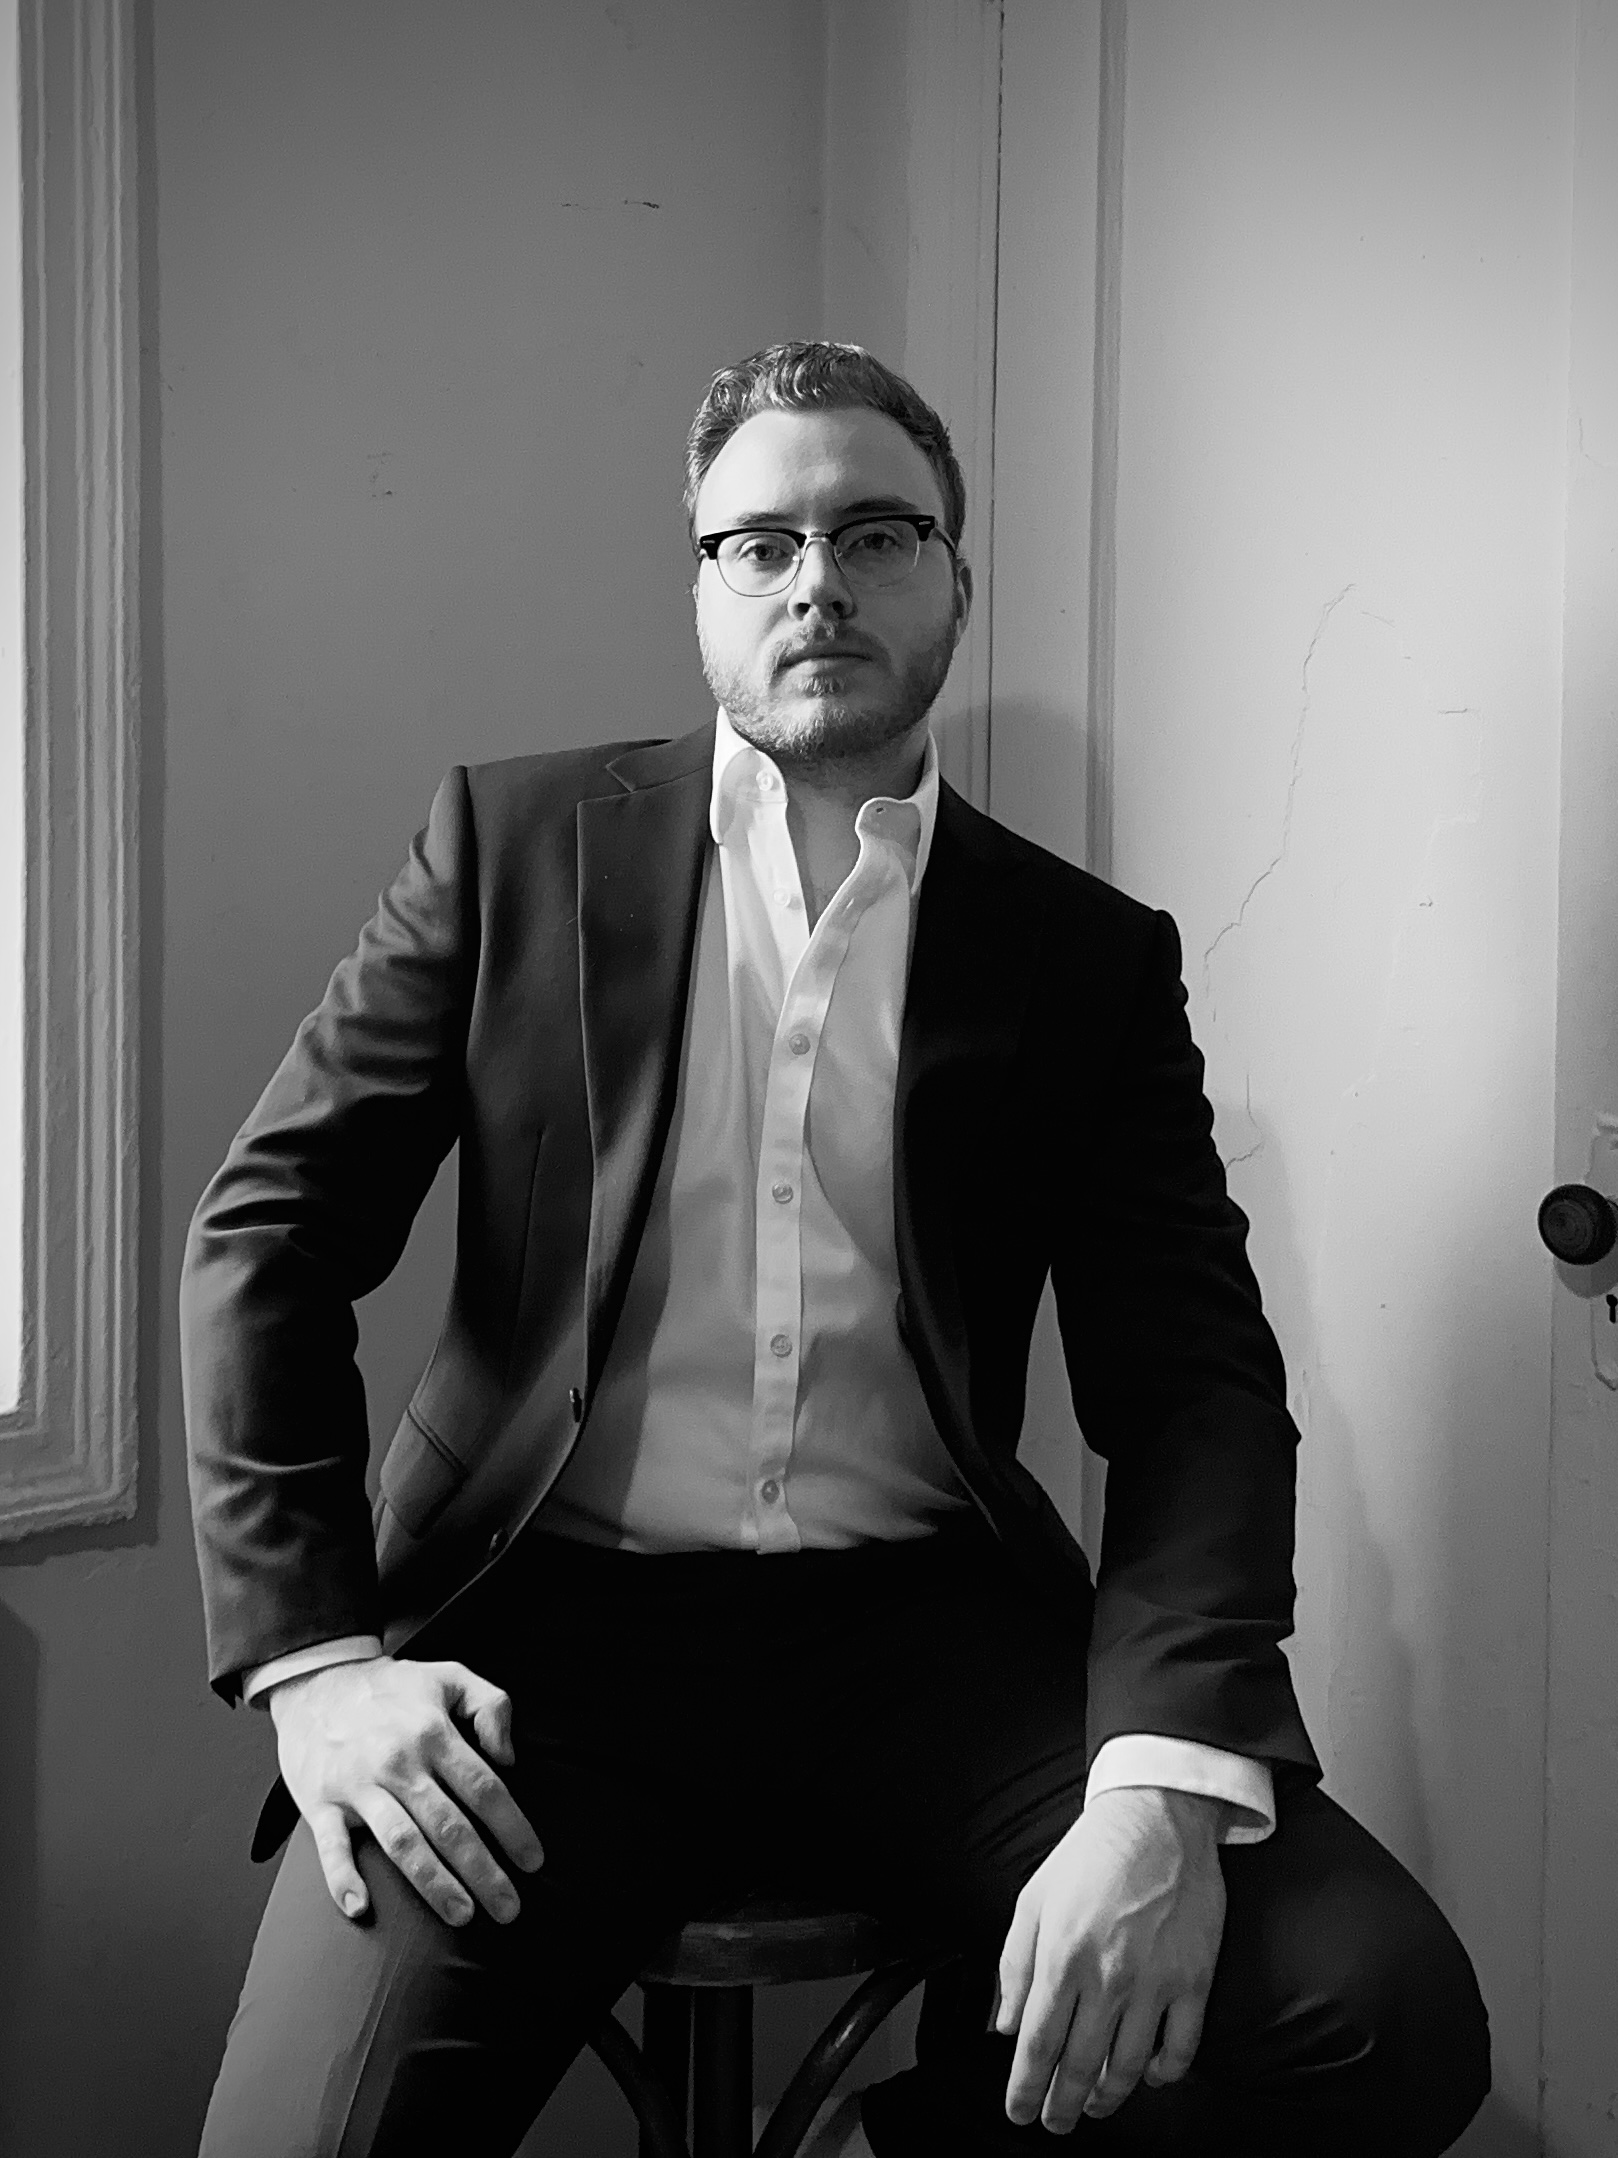
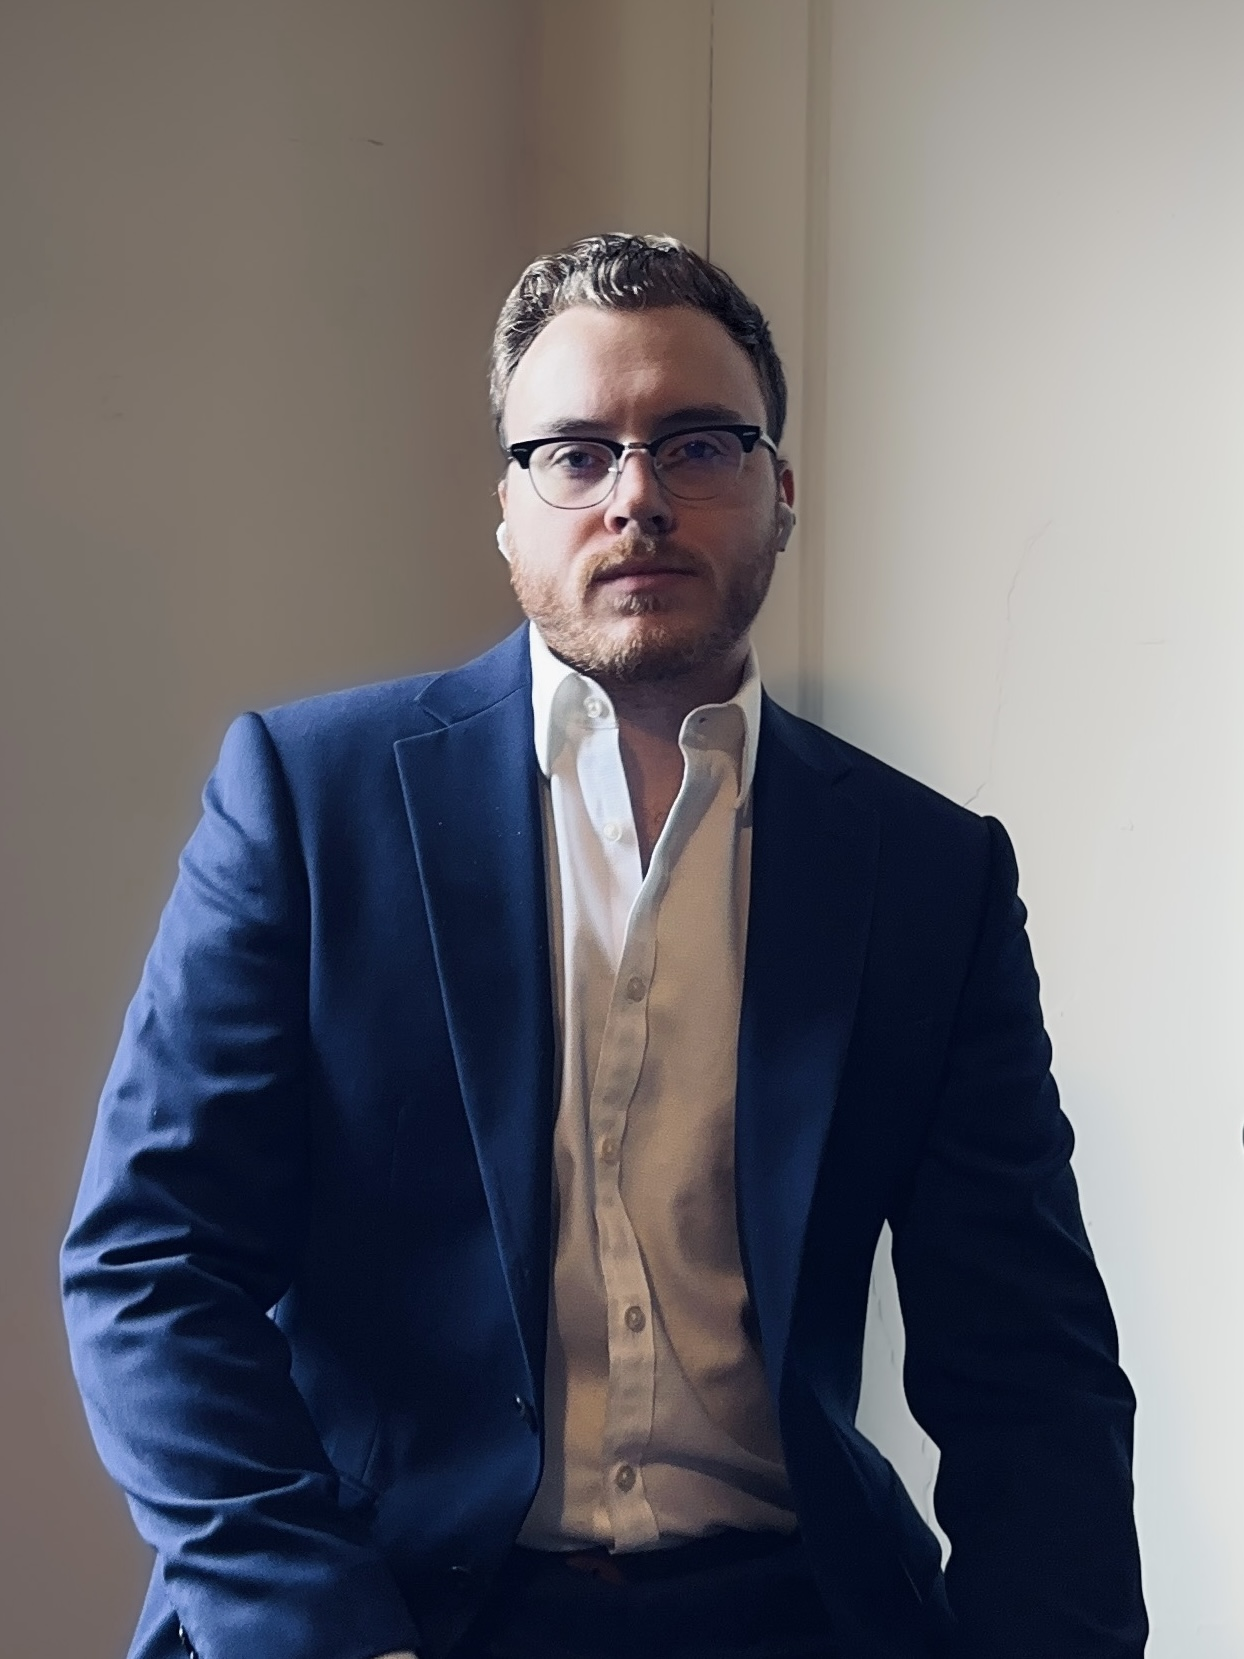
responsive updates

diff --git a/components/content/detail-content.tsx b/components/content/detail-content.tsx
@@ -6,6 +6,8 @@ import Content from '@/interfaces/content';
 import DateFormatter from '../layout/date-formatter';
 import StickyNavBar from '../layout/sticky-nav-bar';
 import VotingButton from '@/components/buttons/voting-button';
+import FixedOverlay from '../layout/fixed-overlay';
+import { InformationCircleIcon } from '@heroicons/react/24/outline';
 import { useEffect, useState } from 'react';
 import {
 	checkUsersVote,
@@ -25,12 +27,17 @@ type Props = {
 };
 
 export default function DetailContent({ type, data }: Props) {
+	const [showAttribution, setShowAttribution] = useState(false);
 	const [userVote, setUserVote] = useState<Vote>(Vote.None);
 
 	useEffect(() => {
 		updateViewCount(data.type, data.slug);
 		setUserVote(checkUsersVote(data));
 	}, []);
+
+	function toggleAttribution() {
+		setShowAttribution(!showAttribution);
+	}
 
 	function handleVoteChange(vote: Vote) {
 		setUserVote(userVote === vote ? Vote.None : vote);
@@ -49,7 +56,7 @@ export default function DetailContent({ type, data }: Props) {
 				</Header>
 			</StickyNavBar>
 
-			<div className='grid grid-cols-1 mt-16 gap-5'>
+			<div className='grid grid-cols-1 mt-5 sm:mt-16 gap-5'>
 				<div className='flex flex-col'>
 					<h2 className='text-lg font-bold text-gray-400 dark:text-gray-500'>
 						<DateFormatter dateString={data.createdAt} />
@@ -112,13 +119,12 @@ export default function DetailContent({ type, data }: Props) {
 						className='rounded-xl aspect-video object-cover'
 					/>
 					{data.coverImage.copyrightLink && (
-						<a href={data.coverImage.copyrightLink}>
-							{data.coverImage.copyrightOwner && (
-								<h4 className='absolute bottom-0 text-white px-2 py-1 border-2 rounded-lg m-3 opacity-50 hover:opacity-100 hover:scale-105'>
-									© {data.coverImage.copyrightOwner}
-								</h4>
-							)}
-						</a>
+						<button
+							onClick={toggleAttribution}
+							className='absolute top-5 right-5 h-8 w-8 text-gray-500 z-50 rounded-full transition duration-500 hover:scale-105'
+						>
+							<InformationCircleIcon />
+						</button>
 					)}
 				</div>
 				<Markdown content={data.content} />
@@ -139,6 +145,27 @@ export default function DetailContent({ type, data }: Props) {
 					</div>
 				</div>
 			</div>
+			{showAttribution && (
+				<FixedOverlay>
+					<h1 className='font-bold text-2xl'>Attribution ❤</h1>
+					<ul className='flex flex-col gap-2'>
+						<li>
+							<a href={data.coverImage.copyrightLink}>
+								<span className='font-bold underline'>
+									Image Source
+								</span>{' '}
+								© {data.coverImage.copyrightOwner}
+							</a>
+						</li>
+					</ul>
+					<button
+						className='rounded-full bg-black px-3 py-2 text-white font-bold'
+						onClick={toggleAttribution}
+					>
+						Dismiss
+					</button>
+				</FixedOverlay>
+			)}
 		</div>
 	);
 }

diff --git a/pages/contact/index.tsx b/pages/contact/index.tsx
@@ -28,7 +28,7 @@ function ContactPage() {
 		console.log(`Passed In Data: ${jsonData}`);
 
 		try {
-			let res = await fetch('http://localhost:3000/api/contact', {
+			let res = await fetch('http://192.168.1.169:3000/api/contact', {
 				method: 'POST',
 				body: jsonData,
 				headers: {
@@ -59,7 +59,7 @@ function ContactPage() {
 					href='https://cdn.jsdelivr.net/gh/devicons/devicon@v2.15.1/devicon.min.css'
 				/>
 			</Head>
-			<div className='max-w-7xl mx-auto min-h-screen'>
+			<div className='max-w-7xl mx-auto min-h-screen mb-20'>
 				<Header
 					title={
 						<h1>
@@ -122,8 +122,8 @@ function ContactPage() {
 					>
 						<Form>
 							<div className='flex flex-col gap-5'>
-								<div className='flex flex-col w-full gap-5 p-5 rounded-md drop-shadow-md bg-gray-200 dark:bg-[#433660]'>
-									<div className='flex flex-col gap-1 border border-gray-400 dark:border-gray-500 p-3 rounded-md'>
+								<div className='flex flex-col w-full gap-5 p-5 rounded-md drop-shadow-md bg-gray-200 dark:bg-[#2F2050]'>
+									<div className='flex flex-col gap-1 border border-gray-400 dark:border-[#413D57] p-3 rounded-md'>
 										<label
 											htmlFor='type'
 											className='block uppercase tracking-wide text-gray-700 dark:text-gray-300 text-md font-bold mb-2'
@@ -159,7 +159,7 @@ function ContactPage() {
 											<ErrorMessage name='type' />
 										</div>
 									</div>
-									<div className='flex flex-col gap-1 border border-gray-400 dark:border-gray-500 p-3 rounded-md'>
+									<div className='flex flex-col gap-1 border border-gray-400 dark:border-[#413D57] p-3 rounded-md'>
 										<label
 											htmlFor='name'
 											className='block uppercase tracking-wide text-gray-700 dark:text-gray-300 text-md font-bold mb-2'
@@ -177,7 +177,7 @@ function ContactPage() {
 											<ErrorMessage name='name' />
 										</div>
 									</div>
-									<div className='flex flex-col gap-1 border border-gray-400 dark:border-gray-500 p-3 rounded-md'>
+									<div className='flex flex-col gap-1 border border-gray-400 dark:border-[#413D57] p-3 rounded-md'>
 										<label
 											htmlFor='contactInfo'
 											className='block uppercase tracking-wide text-gray-700 dark:text-gray-300 text-md font-bold mb-2'
@@ -202,7 +202,7 @@ function ContactPage() {
 											<ErrorMessage name='contactInfo' />
 										</div>
 									</div>
-									<div className='flex flex-col gap-1 border border-gray-400 dark:border-gray-500 p-3 rounded-md'>
+									<div className='flex flex-col gap-1 border border-gray-400 dark:border-[#413D57] p-3 rounded-md'>
 										<label
 											htmlFor={'message'}
 											className='block uppercase tracking-wide text-gray-700 dark:text-gray-300 text-md font-bold mb-2'

diff --git a/pages/admin/about/edit/[title].tsx b/pages/admin/about/edit/[title].tsx
@@ -48,7 +48,7 @@ export default function EditPane({ content = undefined, session }: Props) {
 		console.log(`Passed In Data: ${jsonData}`);
 
 		try {
-			let res = await fetch('http://localhost:3000/api/about', {
+			let res = await fetch('http://192.168.1.169:3000/api/about', {
 				method: 'POST',
 				body: jsonData,
 				headers: {
@@ -71,14 +71,17 @@ export default function EditPane({ content = undefined, session }: Props) {
 		const slugJSON = JSON.stringify(slug);
 
 		try {
-			let res = await fetch(`http://localhost:3000/api/about/${slug}`, {
-				method: 'DELETE',
-				body: slugJSON,
-				headers: {
-					Accept: 'application/json',
-					'Content-Type': 'application/json',
-				},
-			});
+			let res = await fetch(
+				`http://192.168.1.169:3000/api/about/${slug}`,
+				{
+					method: 'DELETE',
+					body: slugJSON,
+					headers: {
+						Accept: 'application/json',
+						'Content-Type': 'application/json',
+					},
+				}
+			);
 			res = await res.json();
 			setIsDeleting(false);
 			router.back();
@@ -239,7 +242,7 @@ export default function EditPane({ content = undefined, session }: Props) {
 export async function getServerSideProps(context: GetServerSidePropsContext) {
 	try {
 		const res = await fetch(
-			`http://localhost:3000/api/about/${context.query.title}`
+			`http://192.168.1.169:3000/api/about/${context.query.title}`
 		);
 		const data = await res.json();
 		const section = data.section;

diff --git a/pages/admin/skills/edit/[name].tsx b/pages/admin/skills/edit/[name].tsx
@@ -46,7 +46,7 @@ export default function EditPane({ skill = undefined, session }: Props) {
 		console.log(`Passed In Data: ${jsonData}`);
 
 		try {
-			let res = await fetch('http://localhost:3000/api/skill', {
+			let res = await fetch('http://192.168.1.169:3000/api/skill', {
 				method: 'POST',
 				body: jsonData,
 				headers: {
@@ -69,14 +69,17 @@ export default function EditPane({ skill = undefined, session }: Props) {
 		const nameJSON = JSON.stringify(name);
 
 		try {
-			let res = await fetch(`http://localhost:3000/api/skill/${name}`, {
-				method: 'DELETE',
-				body: nameJSON,
-				headers: {
-					Accept: 'application/json',
-					'Content-Type': 'application/json',
-				},
-			});
+			let res = await fetch(
+				`http://192.168.1.169:3000/api/skill/${name}`,
+				{
+					method: 'DELETE',
+					body: nameJSON,
+					headers: {
+						Accept: 'application/json',
+						'Content-Type': 'application/json',
+					},
+				}
+			);
 			res = await res.json();
 			setIsDeleting(false);
 			router.back();
@@ -249,7 +252,7 @@ export default function EditPane({ skill = undefined, session }: Props) {
 export async function getServerSideProps(context: GetServerSidePropsContext) {
 	try {
 		const res = await fetch(
-			`http://localhost:3000/api/skill/${context.query.name}`
+			`http://192.168.1.169:3000/api/skill/${context.query.name}`
 		);
 		const data = await res.json();
 		const skill = data.skill;

diff --git a/pages/admin/uploads/edit/[slug].tsx b/pages/admin/uploads/edit/[slug].tsx
@@ -81,7 +81,7 @@ export default function EditPane({ content = undefined, session }: Props) {
 		console.log(`Passed In Data: ${jsonData}`);
 
 		try {
-			let res = await fetch('http://localhost:3000/api/blog', {
+			let res = await fetch('http://192.168.1.169:3000/api/blog', {
 				method: 'POST',
 				body: jsonData,
 				headers: {
@@ -104,14 +104,17 @@ export default function EditPane({ content = undefined, session }: Props) {
 		const slugJSON = JSON.stringify(slug);
 
 		try {
-			let res = await fetch(`http://localhost:3000/api/blog/${slug}`, {
-				method: 'DELETE',
-				body: slugJSON,
-				headers: {
-					Accept: 'application/json',
-					'Content-Type': 'application/json',
-				},
-			});
+			let res = await fetch(
+				`http://192.168.1.169:3000/api/blog/${slug}`,
+				{
+					method: 'DELETE',
+					body: slugJSON,
+					headers: {
+						Accept: 'application/json',
+						'Content-Type': 'application/json',
+					},
+				}
+			);
 			res = await res.json();
 			setIsDeleting(false);
 			router.back();
@@ -515,7 +518,7 @@ export default function EditPane({ content = undefined, session }: Props) {
 export async function getServerSideProps(context: GetServerSidePropsContext) {
 	try {
 		const res = await fetch(
-			`http://localhost:3000/api/blog/${context.query.slug}`
+			`http://192.168.1.169:3000/api/blog/${context.query.slug}`
 		);
 		const data = await res.json();
 		const post = data.post;

diff --git a/pages/portfolio/index.tsx b/pages/portfolio/index.tsx
@@ -79,7 +79,7 @@ function PortfolioPage({
 					/>
 				</StickyNavBar>
 
-				<div className='grid grid-cols-1 lg:grid-cols-3 mb-24 lg:gap-5'>
+				<div className='grid grid-cols-1 lg:grid-cols-3 lg:gap-5'>
 					<div className='flex flex-col col-span-1 lg:col-span-2'>
 						<MasonryGrid
 							type={DataType.Project}
@@ -91,10 +91,14 @@ function PortfolioPage({
 						<AccordionList className='w-full'>
 							{sections.map((section, index) => (
 								<Accordion
-									className='dark:bg-[#534670] border-none'
+									className={
+										index === 0
+											? 'border-x-0 border-t-0 border-b-[#413D57] dark:bg-[#534670]'
+											: 'border-none dark:bg-[#534670]'
+									}
 									key={index}
 								>
-									<AccordionHeader className='dark:text-white text-lg md:text-xl font-bold'>
+									<AccordionHeader className='dark:text-white text-left text-lg md:text-xl font-bold'>
 										{section.title}
 									</AccordionHeader>
 									<AccordionBody>

diff --git a/pages/about/index.tsx b/pages/about/index.tsx
@@ -44,13 +44,13 @@ function AboutPage({ summary, sections }: Props) {
 						"Not important enough to have a Wikipedia article written about me. Guess I'll have to do it myself."
 					}
 				/>
-				<div className='grid gap-10 grid-cols-1 sm:grid-cols-2 md:grid-cols-3 mb-24'>
+				<div className='grid gap-10 grid-cols-1 sm:grid-cols-2 md:grid-cols-3 mb-20'>
 					<div className='flex flex-col gap-4 col-span-1 md:col-span-2'>
 						<Markdown content={summary.content} />
 						<AccordionList className='w-full'>
 							{sections.map((section) => (
 								<Accordion
-									className='dark:bg-[#534670] border-none'
+									className='dark:bg-[#534670] border-none rounded-md'
 									key={section.title}
 								>
 									<AccordionHeader className='dark:text-white md:text-2xl font-bold'>

diff --git a/components/content/custom-radio-group.tsx b/components/content/custom-radio-group.tsx
@@ -26,7 +26,7 @@ const CustomRadioGroup = <TValue,>(props: CustomRadioGroupProps<TValue>) => {
 							`${
 								checked
 									? 'bg-black dark:bg-white'
-									: 'bg-white dark:bg-gray-800'
+									: 'bg-white dark:bg-[#A59DB9]'
 							}
                     relative flex w-full sm:w-auto cursor-pointer rounded-lg px-5 py-4 shadow-md focus:outline-none`
 						}
@@ -41,7 +41,7 @@ const CustomRadioGroup = <TValue,>(props: CustomRadioGroupProps<TValue>) => {
 												className={`font-medium ${
 													checked
 														? 'text-white dark:text-black dark:font-black'
-														: 'text-gray-900 dark:text-gray-400'
+														: 'text-gray-900 dark:text-white'
 												}`}
 											>
 												{option.label}

diff --git a/lib/cookie-helpers.ts b/lib/cookie-helpers.ts
@@ -16,7 +16,7 @@ export async function updateViewCount(type: string, slug: string) {
 	console.log(`Doc: ${viewJSON} | Type: ${type} | Slug: ${slug}`);
 
 	try {
-		let res = await fetch(`http://localhost:3000/api/${type}/${slug}`, {
+		let res = await fetch(`http://192.168.1.169:3000/api/${type}/${slug}`, {
 			method: 'POST',
 			body: viewJSON,
 			headers: {
@@ -44,7 +44,7 @@ export async function updateVoteCount(vote: Vote, type: string, slug: string) {
 	console.log(`Doc: ${voteJSON} | Type: ${type} | Slug: ${slug}`);
 
 	try {
-		let res = await fetch(`http://localhost:3000/api/${type}/${slug}`, {
+		let res = await fetch(`http://192.168.1.169:3000/api/${type}/${slug}`, {
 			method: 'POST',
 			body: voteJSON,
 			headers: {

diff --git a/pages/index.tsx b/pages/index.tsx
@@ -40,6 +40,17 @@ export default function Home() {
 
 				{showAttribution && (
 					<FixedOverlay>
+						<h1 className='font-bold text-2xl'>Controls 🎮</h1>
+						<h4 className='text-gray-500'>
+							This page is still under development and full
+							interactivity is coming. But in the meantime,{' '}
+							<span className='font-bold'>
+								you can use your fingers or mouse to pan around
+								the room and zoom in
+							</span>
+							. Please check out the other pages on my site below.
+						</h4>
+						<hr />
 						<h1 className='font-bold text-2xl'>Attribution ❤</h1>
 						<h4 className='text-gray-500'>
 							I may wear many hats, but unfortunately my talents

diff --git a/components/filter/filter-panel.tsx b/components/filter/filter-panel.tsx
@@ -18,11 +18,11 @@ function FilterPanel({ onClick, filterOptions, path }: Props) {
 
 	return (
 		<header
-			className='flex h-full z-50 flex-wrap drop-shadow-lg gap-2 p-3 pr-5 rounded-lg items-center
-			bg-white dark:bg-[#433660] dark:text-white w-full md:w-auto
+			className='flex flex-wrap h-full w-full md:w-auto z-50 drop-shadow-lg gap-2 p-3 rounded-lg items-center
+			bg-white dark:bg-[#2F2050] dark:text-white 
 		'
 		>
-			<div className='w-10 p-2'>
+			<div className='w-10 p-2 border dark:border-[#413D57] rounded-full'>
 				<AdjustmentsHorizontalIcon />
 			</div>
 

diff --git a/components/layout/fixed-overlay.tsx b/components/layout/fixed-overlay.tsx
@@ -1,9 +1,7 @@
 function FixedOverlay(props: any) {
 	return (
-		<div className='fixed top-1/2 left-1/2 -translate-y-1/2 -translate-x-1/2 z-50 w-3/4 md:w-1/3'>
-			<div className='flex flex-col gap-5 bg-white p-10 rounded-lg'>
-				{props.children}
-			</div>
+		<div className='fixed top-1/2 left-1/2 -translate-y-1/2 -translate-x-1/2 z-50 w-3/4 max-h-96 md:w-1/3 bg-red-500 overflow-y-auto bg-white rounded-lg p-10'>
+			<div className='flex flex-col gap-5'>{props.children}</div>
 		</div>
 	);
 }
